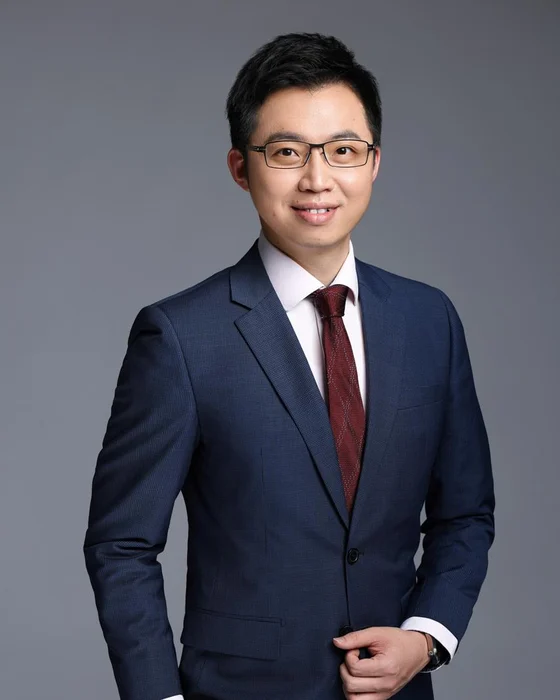
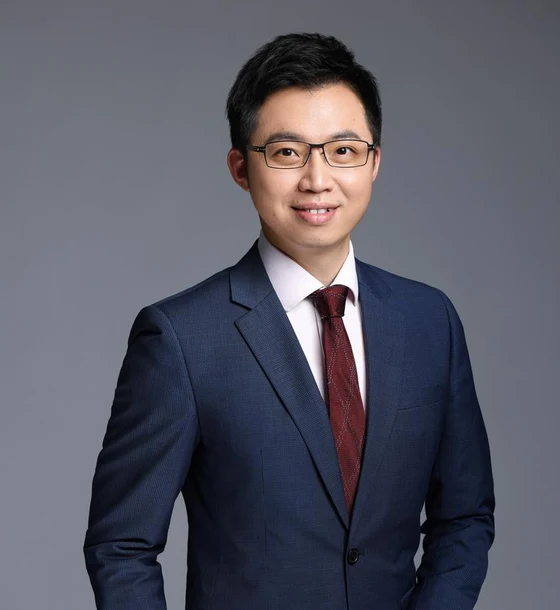
ai-e v22 live

diff --git a/us-3top-2027-ai-e/index.html b/us-3top-2027-ai-e/index.html
@@ -10,7 +10,7 @@
 <meta name="theme-color" content="#0B1B3A"/>
 <link rel="preconnect" href="https://fonts.googleapis.com"/><link rel="preconnect" href="https://fonts.gstatic.com" crossorigin=""/>
 <link rel="stylesheet" href="https://fonts.googleapis.com/css2?family=IBM+Plex+Mono:wght@500;600&amp;family=IBM+Plex+Sans:ital,wght@0,400;0,500;0,600;0,700;1,600;1,700&amp;family=Noto+Sans+TC:wght@400;500;700;900&amp;display=swap"/>
-<link rel="stylesheet" href="assets/css/e.css?v=21"/>
+<link rel="stylesheet" href="assets/css/e.css?v=22"/>
 </head>
 
 <body>
@@ -217,7 +217,7 @@
 <section class="sec" id="guide" aria-labelledby="s11">
 <div class="wrap">
 <div class="mentor rv">
-<figure class="mt-ph"><img src="assets/img/win-portrait-854.webp" srcset="assets/img/win-portrait-560.webp 560w, assets/img/win-portrait-854.webp 854w" sizes="(min-width:900px) 40vw, 100vw" alt="Win 教授（林嘉宏）" width="854" height="1068" loading="lazy"/></figure>
+<figure class="mt-ph"><img src="assets/img/win-portrait-854.webp" srcset="assets/img/win-portrait-560.webp 560w, assets/img/win-portrait-854.webp 854w" sizes="(min-width:900px) 40vw, 100vw" alt="Win 教授（林嘉宏）" width="854" height="930" loading="lazy"/></figure>
 <div class="mt-b">
 <h2 id="s11" class="mt-k">帶隊導師</h2>
 <p class="mt-n">林嘉宏 Win</p>
@@ -226,16 +226,16 @@
 <ul class="mt-hl">
 <li><b>15</b><span>年以上</span><p>國際教育與商業顧問經驗，擅長數位行銷、商業模式、創新創業</p></li>
 <li><b>院士</b><p>獲聘美國矽谷研究院最年輕華裔院士</p></li>
-<li><b>HBR</b><p>台灣最年輕榮獲美國哈佛商業評論拉姆查蘭管理實踐獎得主</p></li>
+<li><b>拉姆查蘭</b><p>台灣最年輕榮獲美國哈佛商業評論拉姆查蘭管理實踐獎得主</p></li>
 <li><b>CEO</b><p>台灣唯一榮獲澳洲The CEO Institute機構認證全球CEO</p></li>
 </ul>
 <p class="mt-lead">近5年帶領超過百位企業主、高管與專業人士世界各地進修</p>
 <div class="mt-gs">
-<div class="gx-g"><h4>學歷</h4><ul><li>臺北科技大學｜經營管理博士</li><li>美國菲利普斯研究大學｜名譽博士</li></ul></div>
-<div class="gx-g"><h4>現任企業</h4><ul><li>鼎盛全球科技（股）公司｜董事長</li><li>愛語包容 AI（股）公司｜共創人兼營運長</li><li>華沃教育｜創辦人</li><li>尚億國際創育有限公司｜董事長</li></ul></div>
-<div class="gx-g"><h4>學術經歷</h4><ul><li>史丹佛大學｜訪問學者</li><li>柏克萊加州大學｜訪問學者</li><li>美國矽谷研究院｜院士</li><li>美國菲利普斯研究大學｜院士</li></ul></div>
-<div class="gx-g"><h4>重要獎項</h4><ul><li>美國哈佛商業評論｜拉姆查蘭管理實踐獎</li><li>新加坡｜Brands For Good 商業向善獎</li><li>澳洲｜The CEO Institute 全球CEO認證</li><li>中國大陸｜最佳實戰培訓師百強</li><li>東南亞｜世界華人楷模傑出領袖獎</li><li>香港｜8 Figure Award Winners 企業家成就獎</li><li>台灣｜臺北市優秀青年獎</li></ul><p class="gx-note">以《用數位加盟創新商模賦能台灣傳統產業數智化運營》榮獲 2024 拉姆・查蘭管理實踐獎「創新創業實踐獎」（《哈佛商業評論》中文版主辦）</p></div>
-<div class="gx-g"><h4>社團經歷</h4><ul><li>世界華商領袖協會｜理事長</li><li>台灣職工教育和職業培訓協會｜副理事長</li><li>中華工商經貿科技發展協會｜常務理事</li><li>新加坡國際奧林匹亞競賽中心 SIMCC｜台灣地區主席</li><li>國際扶輪 3482 地區 2026-27 年度公共形象委員會副主委</li><li>國際扶輪 3482 地區 2024-25 年度扶輪青年領袖獎研習營委員會主委</li><li>台北景福扶輪社 2020-21 年度社長</li></ul></div>
+<div class="gx-g"><h4>學歷</h4><ul><li>臺北科技大學｜經營管理博士</li><li>美國菲利普斯研究大學｜名譽博士</li></ul></div>
+<div class="gx-g"><h4>現任企業</h4><ul><li>鼎盛全球科技（股）公司｜董事長</li><li>愛語包容 AI（股）公司｜共創人兼營運長</li><li>華沃教育｜創辦人</li><li>尚億國際創育有限公司｜董事長</li></ul></div>
+<div class="gx-g"><h4>學術經歷</h4><ul><li>史丹佛大學｜訪問學者</li><li>柏克萊加州大學｜訪問學者</li><li>美國矽谷研究院｜院士</li><li>美國菲利普斯研究大學｜院士</li></ul></div>
+<div class="gx-g"><h4>重要獎項</h4><ul><li>美國哈佛商業評論｜拉姆查蘭管理實踐獎</li><li>新加坡｜Brands For Good 商業向善獎</li><li>澳洲｜The CEO Institute 全球CEO認證</li><li>中國大陸｜最佳實戰培訓師百強</li><li>東南亞｜世界華人楷模傑出領袖獎</li><li>香港｜8 Figure Award Winners 企業家成就獎</li><li>台灣｜臺北市優秀青年獎</li></ul><p class="gx-note">以《用數位加盟創新商模賦能台灣傳統產業數智化運營》榮獲 2024 拉姆・查蘭管理實踐獎「創新創業實踐獎」（《哈佛商業評論》中文版主辦）</p></div>
+<div class="gx-g"><h4>社團經歷</h4><ul><li>世界華商領袖協會｜理事長</li><li>台灣職工教育和職業培訓協會｜副理事長</li><li>中華工商經貿科技發展協會｜常務理事</li><li>新加坡國際奧林匹亞競賽中心 SIMCC｜台灣地區主席</li><li>國際扶輪 3482 地區 2026-27 年度公共形象委員會副主委</li><li>國際扶輪 3482 地區 2024-25 年度扶輪青年領袖獎研習營委員會主委</li><li>台北景福扶輪社 2020-21 年度社長</li></ul></div>
 </div>
 <p class="gx-note">授課與教育事業足跡涵蓋台灣、中國、新加坡、馬來西亞</p>
 </div>

diff --git a/us-3top-2027-ai-e/assets/css/e.css b/us-3top-2027-ai-e/assets/css/e.css
@@ -576,3 +576,8 @@ h1,h2,h3,h4,p,li,dt,dd,figcaption,.btn{text-wrap:pretty}
  .mt-gs{display:block;columns:2;column-gap:48px}
  #guide .gx-g{break-inside:avoid;display:inline-block;width:100%}
 }
+.mt-ph{aspect-ratio:854/930}.mt-ph img{object-position:50% 0}
+.mt-hl b{word-break:keep-all}
+.mt-hl b{white-space:nowrap}@media(max-width:899px){.mt-hl b{font-size:clamp(26px,7.6vw,44px)}.mt-hl li{padding:20px 14px}}
+.mt-hl p,#guide .gx-g li{word-break:normal;line-break:strict;overflow-wrap:break-word}
+.mt-hl p{word-break:keep-all;overflow-wrap:anywhere;line-break:strict}#guide .gx-g li{word-break:keep-all;line-break:strict}
